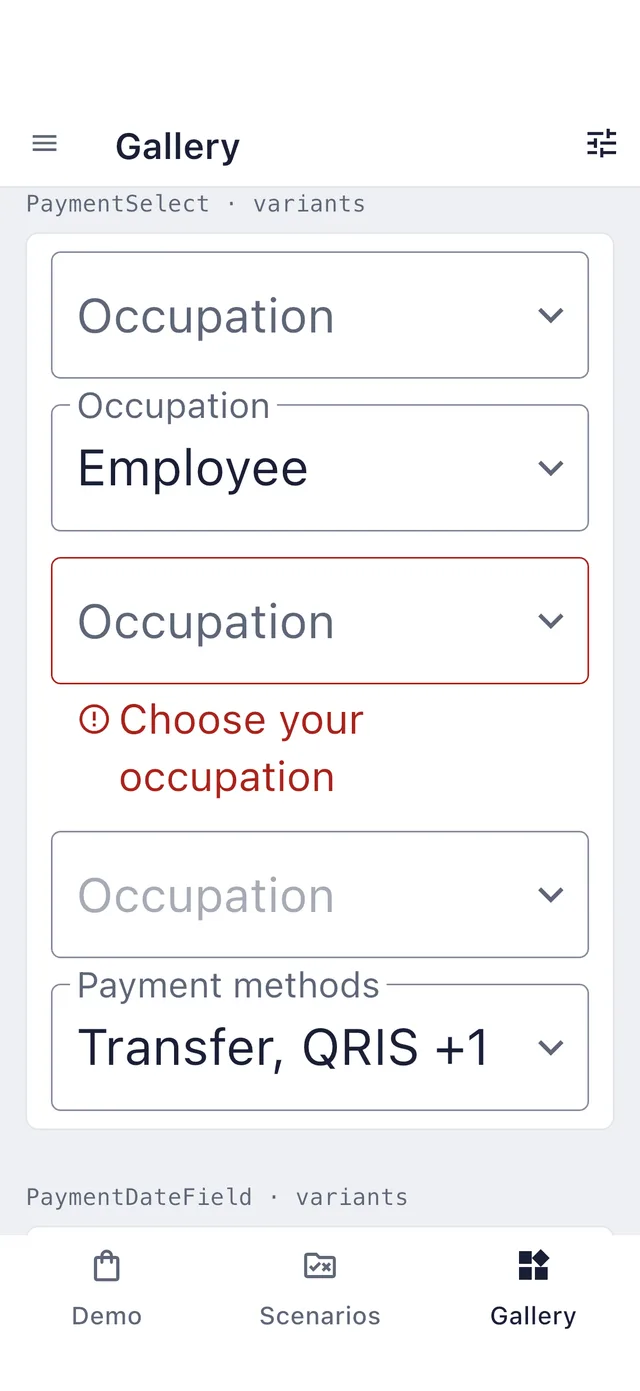
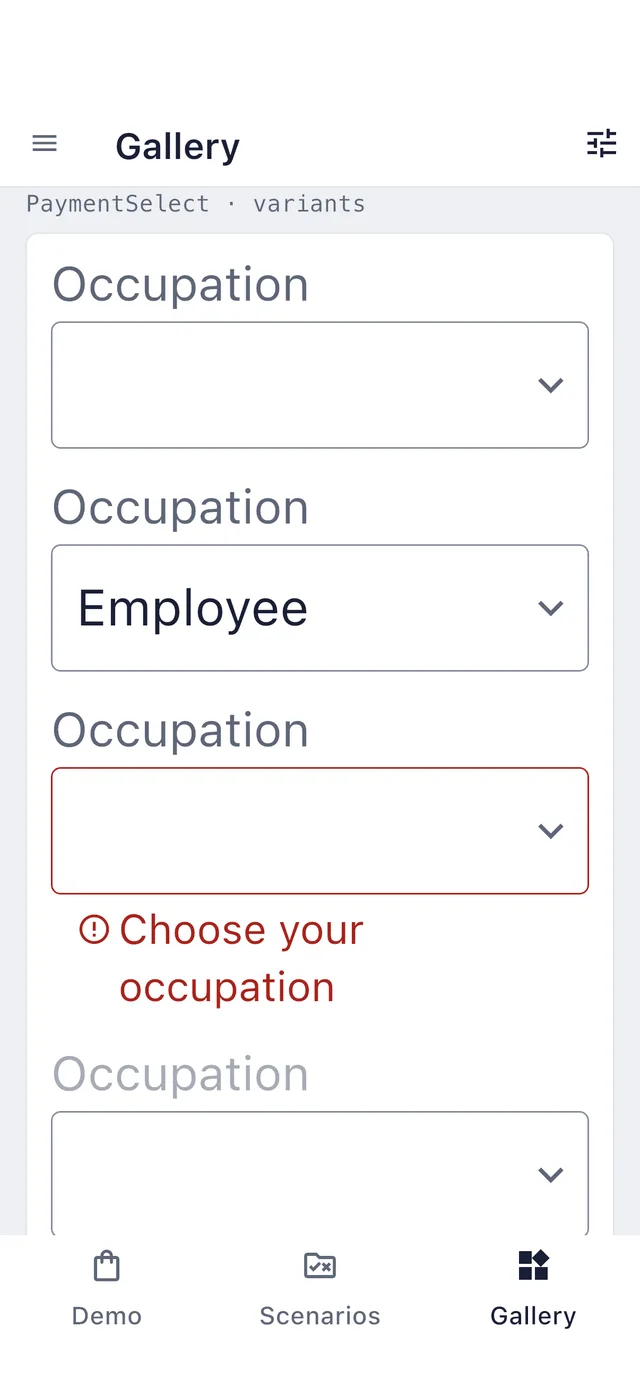
docs: P7b field labels at large text and quiet button edge
CHANGELOG and the docs changelog, decisions and PRD section 14 notes,
text field and button pages, regenerated api.json, field captures at
200% in English and Indonesian, button captures, and screens.json.

diff --git a/lib/src/foundation/primitives.dart b/lib/src/foundation/primitives.dart
@@ -349,7 +349,9 @@ class PaymentButton extends StatefulWidget {
   /// Drawn height: small 36, medium 48, large 56 dp. Hit box stays at least 48.
   final PaymentSize size;
 
-  /// Fill the parent or hug the wrapped label, at least 112 dp wide.
+  /// Fill the parent or hug the wrapped label, at least 112 dp wide. A
+  /// quiet button that hugs, outside a `PaymentButtonGroup`, keeps only the
+  /// 48 dp floor and starts its text on the column edge.
   final PaymentWidth width;
 
   /// Initial route focus, useful for the safe choice in destructive dialogs.

diff --git a/lib/src/foundation/payment_tokens.dart b/lib/src/foundation/payment_tokens.dart
@@ -30,7 +30,8 @@ enum PaymentSpace {
   none,
 
   /// spacing × 0.5 (4): label → caption, title → message, title → meta,
-  /// a small glyph beside its text. Stripe xxsmall.
+  /// a small glyph beside its text, a field's label above its box at large
+  /// text. Stripe xxsmall.
   inline,
 
   /// spacing (8): between stacked or adjacent actions and chips, text →

diff --git a/docs/decisions.md b/docs/decisions.md
@@ -499,7 +499,7 @@ Problems found in the review are recorded as issues before any work: #45–#50, 
 - **Fields (#47).** An `OutlineInputBorder` adds its 4 dp `gapPadding` inside the content padding, so 12 renders a 16 text edge; `fieldContentPadding` states that explicitly for every size. The currency field sets the amount's line height from the input line at the clamped amount size, so it matches the text field at 1× and 2×.
 - **Tabs (#60).** `EdgeFadeScroll` adds the mask only when the row overflows; a `GlobalKey` keeps the scroll view and its offset when the mask appears. Reveal scrolls only the tab row's own position, never the page.
 - **Copy failure (#46).** The label hangs under the button's end edge in an `OverlayPortal`, so it may cover the content below until the next press or a new value. The button announces the failure through its semantics value; the label is excluded from semantics to avoid a double announcement.
-- **Text-action edges (#65, first item).** `MinTapTarget` takes an alignment; `PaymentLink` starts its text on the column edge, and the internal `TextActionEdge.end` scope keeps trailing links (section actions, promo "Why this?", detail property links) on the end edge. Quiet `PaymentButton`s keep their padding: shifting them would collide in button rows and D45 centres Cancel, so #65 stays open for that part.
+- **Text-action edges (#65, first item).** `MinTapTarget` takes an alignment; `PaymentLink` starts its text on the column edge, and the internal `TextActionEdge.end` scope keeps trailing links (section actions, promo "Why this?", detail property links) on the end edge. Quiet `PaymentButton`s keep their padding: shifting them would collide in button rows and D45 centres Cancel, so #65 stays open for that part. *Superseded in P7b: quiet hug buttons start on the edge and button rows opt out.*
 - **Demo (#59).** English demo text is unchanged byte for byte, so tests that find English text keep passing. The capture harness gained `CAPTURE_ONLY` / `CAPTURE_LOOKS` and the `_id` / `_id_200` looks; id runs open pages by their Indonesian drawer labels and close the dialog through its scrim. This phase captures nine specimens in Indonesian; the full Indonesian sweep is P7.
 
 ### UI review P2 implementation notes (1 Nov 2026)
@@ -562,3 +562,9 @@ Problems found in the review are recorded as issues before any work: #45–#50, 
 - **Tab bar.** `_Shell` listens to the coordinator and drops the phone `NavigationBar` while the Demo tab is on a step from KYC intro through the receipt (`inPaymentFlow`). The wide rail stays: it sits beside the content, not under the action. Back leaves the flow as before.
 - **Cancel / back / close (#49-3).** Already quiet in the kit (authorize back, confirm sheet Cancel, context view Close since P5); the gallery's order-details side sheet had a secondary footer Close next to its header close, and it is quiet now. The promo "Why this?" sheet keeps its one primary Close: it is the sheet's only action (D54, P2), not a dismiss beside another action. "Request cancellation" stays secondary: it asks the host to act, it doesn't dismiss.
 - **Exception: KYC form steps.** `PaymentOnboardingView` has no footer, and `IdentityForm` and `VerificationReview` own their submit (the form validates its own fields), so identity, documents and review keep the submit at the end of the form; at 200% on a small phone it needs a scroll. Pinning them needs new public API: an external submit for `IdentityForm` (a controller, or a footer slot the view provides) and a way for `VerificationReview` to leave its button to the view. Doing one of the three steps would move the action within the onboarding view, so none is changed. Follow-up, tracked in #64.
+
+### UI review P7b implementation notes (1 Nov 2026)
+
+- **Labels above the box (#73).** The plan's preferred approach. `fieldLabelAbove` is `PaymentType.isLarge`; the internal `FieldLabelAbove` draws the label (15/20 `label` role, `textSecondary`) an `inline` (4) gap above the box, excluded from semantics, and the input names itself through `Semantics(label:)`, as the hidden-label path already did. Fields always build the frame and only add the label row at large text, so a text-size change keeps the input's state. Without a floating label, `fieldContentPadding(labelAbove: true)` splits the top and bottom padding evenly (12/12, 16/16, 20/20): the box keeps its 48 / 56 / 64 dp at 1× and its height at 2×, and the text sits centred. The currency field puts the label outside its 1.6× clamp, so the label scales like every other field's. The hint is passed only while focused at large text: Material shows a hint at rest when there is no label, and the select's one-line hint ellipsized at 200%. The select sheet's filter, a `PaymentTextField.search` named after the select, follows the same rule; the search sheet's own field hides its label and is unchanged. Side-by-side groups already stack at large text, so labels that wrap to different line counts never misalign boxes.
+- **Quiet button edge (#65).** Supersedes the P1 note. Only `quiet` + `hug` moves; `fill` stays centred, which covers the D45 / D62 stacks. The button reads the internal `TextActionEdge` scope: start by default, end inside a trailing slot, and the new `TextActionEdge.none`, which `PaymentButtonGroup` and the accordion's action row set, keeps the old centred button. On an edge, the button takes TextButton's own padding (medium: Material's scaled default, 12 at 1×; small and large: their own scaled padding), caps it at `block` (12) so the box stays in a 16 dp gutter, drops the 112 dp hug minimum to 48 so a short label isn't centred away from the edge, and aligns wrapped lines to the edge. `MinTapTarget(hang:)` then draws the child that far past the edge, only while the width is loose: a stretched column or a stacked group gives a tight width, and the button fills it with a centred label. Parents hit-test their own bounds, so the overhang is not tappable; the box forwards taps across the drawn button, widened to 48 dp, and leaves the bare end that the hang uncovers to whatever follows. A host `Row` or `Wrap` of quiet hug buttons shifts every button equally, so their gaps are unchanged; documented with the advice to use `PaymentButtonGroup`. No context detection by `LayoutBuilder`: `_RowOrStack` measures intrinsic widths.
+- **Deviation from the file split.** `payment/checkout.dart` (currency field label outside the clamp), `controls/button_group.dart` and `interaction/interaction.dart` (the `none` scope) are outside the listed files and outside P7a's; the catalog capture test gained a `button` slug so `CAPTURE_ONLY` can shoot the button specimen.

diff --git a/docs/prd-foundation-components.md b/docs/prd-foundation-components.md
@@ -2103,6 +2103,10 @@ The owner accepted every recommendation below on 31 Oct 2026. The parity decisio
 - [x] Settings legend → first control: one 8 dp gap for fields and selection rows (#66)
 - [x] One pinned footer for views, the action bar and sheets (P4's `KitSheetFooter` merged into `PinnedFooter`)
 
+**UI review P7b: readable field labels, quiet buttons on the edge** (#73, #65)
+- [x] Above 1.5× text every field's label sits above the box and wraps; box heights unchanged; label stays the spoken name; hint on focus only (#73)
+- [x] Quiet hug `PaymentButton` text on the column edge (end edge in trailing slots), box hanging ≤ 12 dp outward; button groups, accordion actions and full-width buttons stay centred (#65)
+
 **UI review P6: payment path, priority action at the bottom** (D62; #49, #58, #64)
 - [x] Internal `ActionFrame`: bounded height pins the primary and at most one quiet action through `ViewFrame` / `ViewFooter` / `PinnedFooter`; unbounded keeps the inline layout
 - [x] Adopted by `PaymentConfirmation`, `AuthorizationPrompt`, `PaymentStatusView`, `VerificationIntro`, `VerificationStatusView`; additive `header`, `PaymentStatusView.secondaryAction` (quiet)
@@ -2155,7 +2159,7 @@ Views own their body scroll with an unbounded non-scrolling fallback; hosts own 
 
 ### Phase 4D-2 implementation notes
 
-DetailPage owns its vertical scroll and must not be nested in FullPageView; OverviewPage and modules never scroll vertically. Primary/secondary columns use 2:1 at 840 dp and otherwise stack. Breadcrumbs collapse to the immediate parent. Pending uses skeleton blocks. Module errors use warning tone (D25). DetailValue adds subText, and extraActions use a menu. Code wraps by default and noWrap fades overflowing edges. Fitted tabs measure labels at the current text scale and fall back to horizontal scrolling. Material-owned exception: outlined floating labels are single-line; keep labels short (24 characters or fewer) and put detail in description. The attempted two-line 60-character label at 320 dp and 200% still exceeded max lines, so it was reverted. Test deviation: the synthetic Flutter test font makes Bank transfer too wide for three equal tabs at 393 dp; the fitting test uses 800 dp while the final captures inspect real simulator typography. Captures are refreshed only for the 4C–4D set plus Code/Tabs under the owner one-run rule.
+DetailPage owns its vertical scroll and must not be nested in FullPageView; OverviewPage and modules never scroll vertically. Primary/secondary columns use 2:1 at 840 dp and otherwise stack. Breadcrumbs collapse to the immediate parent. Pending uses skeleton blocks. Module errors use warning tone (D25). DetailValue adds subText, and extraActions use a menu. Code wraps by default and noWrap fades overflowing edges. Fitted tabs measure labels at the current text scale and fall back to horizontal scrolling. Material-owned exception: outlined floating labels are single-line; keep labels short (24 characters or fewer) and put detail in description. The attempted two-line 60-character label at 320 dp and 200% still exceeded max lines, so it was reverted. *UI review P7b (#73): above 1.5× text the label moves above the box and wraps.* Test deviation: the synthetic Flutter test font makes Bank transfer too wide for three equal tabs at 393 dp; the fitting test uses 800 dp while the final captures inspect real simulator typography. Captures are refreshed only for the 4C–4D set plus Code/Tabs under the owner one-run rule.
 
 The Phase 4C–4D API sketches above are synchronized with the implemented optional sort/filter, focus size placement, menu trigger builder, detail values and scroll ownership.
 

diff --git a/website/src/content/docs/reference/changelog.md b/website/src/content/docs/reference/changelog.md
@@ -5,6 +5,11 @@ description: Changes in flutter_ui_payment, copied from CHANGELOG.md in the repo
 
 Copied verbatim from `CHANGELOG.md`. Version 0.1.0 is unreleased and not published.
 
+## UI review P7b (2026-11-01)
+
+- **Field labels above the box at large text (#73).** Above 1.5× text, `PaymentTextField`, `PaymentTextArea`, `PaymentCurrencyField`, `PaymentDateField`, `PaymentSelect` and the phone `PaymentSearchField` trigger show their label above the box, where it wraps, instead of a floating label that kept one line and ellipsized ("Date of birth (opt…"). The box keeps its height, so fields of different types still line up (#47). The label stays the field's spoken name, and tapping it focuses the field or opens the picker. While the label is above, the hint shows only when the field has focus, as it does behind a floating label. Normal text is unchanged. No API change. **Migration:** tests that find a field's label at 2× find it above the box; tests that read `InputDecoration.labelText` or `hintText` at 2× see null.
+- **Quiet buttons on the column edge (#65).** A quiet `PaymentButton` with `width: PaymentWidth.hug` is a text action: its text starts on the column edge, like `PaymentLink`, and its press and focus box hangs outward by its padding (at most 12 dp, inside a 16 dp gutter); in a row's trailing slot the text sits on the end edge. It hugs its label with the 48 dp tap floor instead of the 112 dp hug minimum, and its target never takes the start of a neighbour's box. In a `PaymentButtonGroup`, in accordion actions, and when it fills the width (footers, confirm sheets, stacked groups), its label stays centred as before. No API change. **Migration:** a quiet hug button in your own `Row` or `Wrap` now hangs into the gap before it; put side-by-side buttons in a `PaymentButtonGroup` to keep them centred.
+
 ## UI review P6 (2026-11-01)
 
 - **Pinned priority action on the payment path (D62, #49, #64).** `PaymentConfirmation`, `AuthorizationPrompt`, `PaymentStatusView`, `VerificationIntro` and `VerificationStatusView` pin their priority action when their height is bounded, for example as a screen's body. The content scrolls in the 640 dp column. A footer at the bottom, inside the safe area, holds a full-width primary on phones, with at most one quiet action under it (D59): "Back to review" under authorize, and the host's `secondaryAction` or the quiet "Contact support" under the status primary. The status view's other actions, and every verification status action after the first, stay in the content as hug buttons. `VerificationIntro` shows its consent hint with the pinned Continue. Inside a scroll view (unbounded height) the layout is unchanged. New `header` on all five widgets (host content above the widget's own, inside its scroll region) and `PaymentStatusView.secondaryAction` (one quiet host action, e.g. "Done"; asserted quiet). All additive. **Migration:** a host that already gives one of these widgets a bounded height, such as `Scaffold(body: PaymentStatusView(…))` or an `Expanded`, now gets a pinned footer and an internal scroll. To keep the old inline layout, put the widget in a `SingleChildScrollView` or `ListView`. To keep a banner or summary above it in the same scroll, pass it as `header` instead of wrapping both in a `Column`:

diff --git a/CHANGELOG.md b/CHANGELOG.md
@@ -1,3 +1,8 @@
+## UI review P7b (2026-11-01)
+
+- **Field labels above the box at large text (#73).** Above 1.5× text, `PaymentTextField`, `PaymentTextArea`, `PaymentCurrencyField`, `PaymentDateField`, `PaymentSelect` and the phone `PaymentSearchField` trigger show their label above the box, where it wraps, instead of a floating label that kept one line and ellipsized ("Date of birth (opt…"). The box keeps its height, so fields of different types still line up (#47). The label stays the field's spoken name, and tapping it focuses the field or opens the picker. While the label is above, the hint shows only when the field has focus, as it does behind a floating label. Normal text is unchanged. No API change. **Migration:** tests that find a field's label at 2× find it above the box; tests that read `InputDecoration.labelText` or `hintText` at 2× see null.
+- **Quiet buttons on the column edge (#65).** A quiet `PaymentButton` with `width: PaymentWidth.hug` is a text action: its text starts on the column edge, like `PaymentLink`, and its press and focus box hangs outward by its padding (at most 12 dp, inside a 16 dp gutter); in a row's trailing slot the text sits on the end edge. It hugs its label with the 48 dp tap floor instead of the 112 dp hug minimum, and its target never takes the start of a neighbour's box. In a `PaymentButtonGroup`, in accordion actions, and when it fills the width (footers, confirm sheets, stacked groups), its label stays centred as before. No API change. **Migration:** a quiet hug button in your own `Row` or `Wrap` now hangs into the gap before it; put side-by-side buttons in a `PaymentButtonGroup` to keep them centred.
+
 ## UI review P6 (2026-11-01)
 
 - **Pinned priority action on the payment path (D62, #49, #64).** `PaymentConfirmation`, `AuthorizationPrompt`, `PaymentStatusView`, `VerificationIntro` and `VerificationStatusView` pin their priority action when their height is bounded, for example as a screen's body. The content scrolls in the 640 dp column. A footer at the bottom, inside the safe area, holds a full-width primary on phones, with at most one quiet action under it (D59): "Back to review" under authorize, and the host's `secondaryAction` or the quiet "Contact support" under the status primary. The status view's other actions, and every verification status action after the first, stay in the content as hug buttons. `VerificationIntro` shows its consent hint with the pinned Continue. Inside a scroll view (unbounded height) the layout is unchanged. New `header` on all five widgets (host content above the widget's own, inside its scroll region) and `PaymentStatusView.secondaryAction` (one quiet host action, e.g. "Done"; asserted quiet). All additive. **Migration:** a host that already gives one of these widgets a bounded height, such as `Scaffold(body: PaymentStatusView(…))` or an `Expanded`, now gets a pinned footer and an internal scroll. To keep the old inline layout, put the widget in a `SingleChildScrollView` or `ListView`. To keep a banner or summary above it in the same scroll, pass it as `header` instead of wrapping both in a `Column`:
